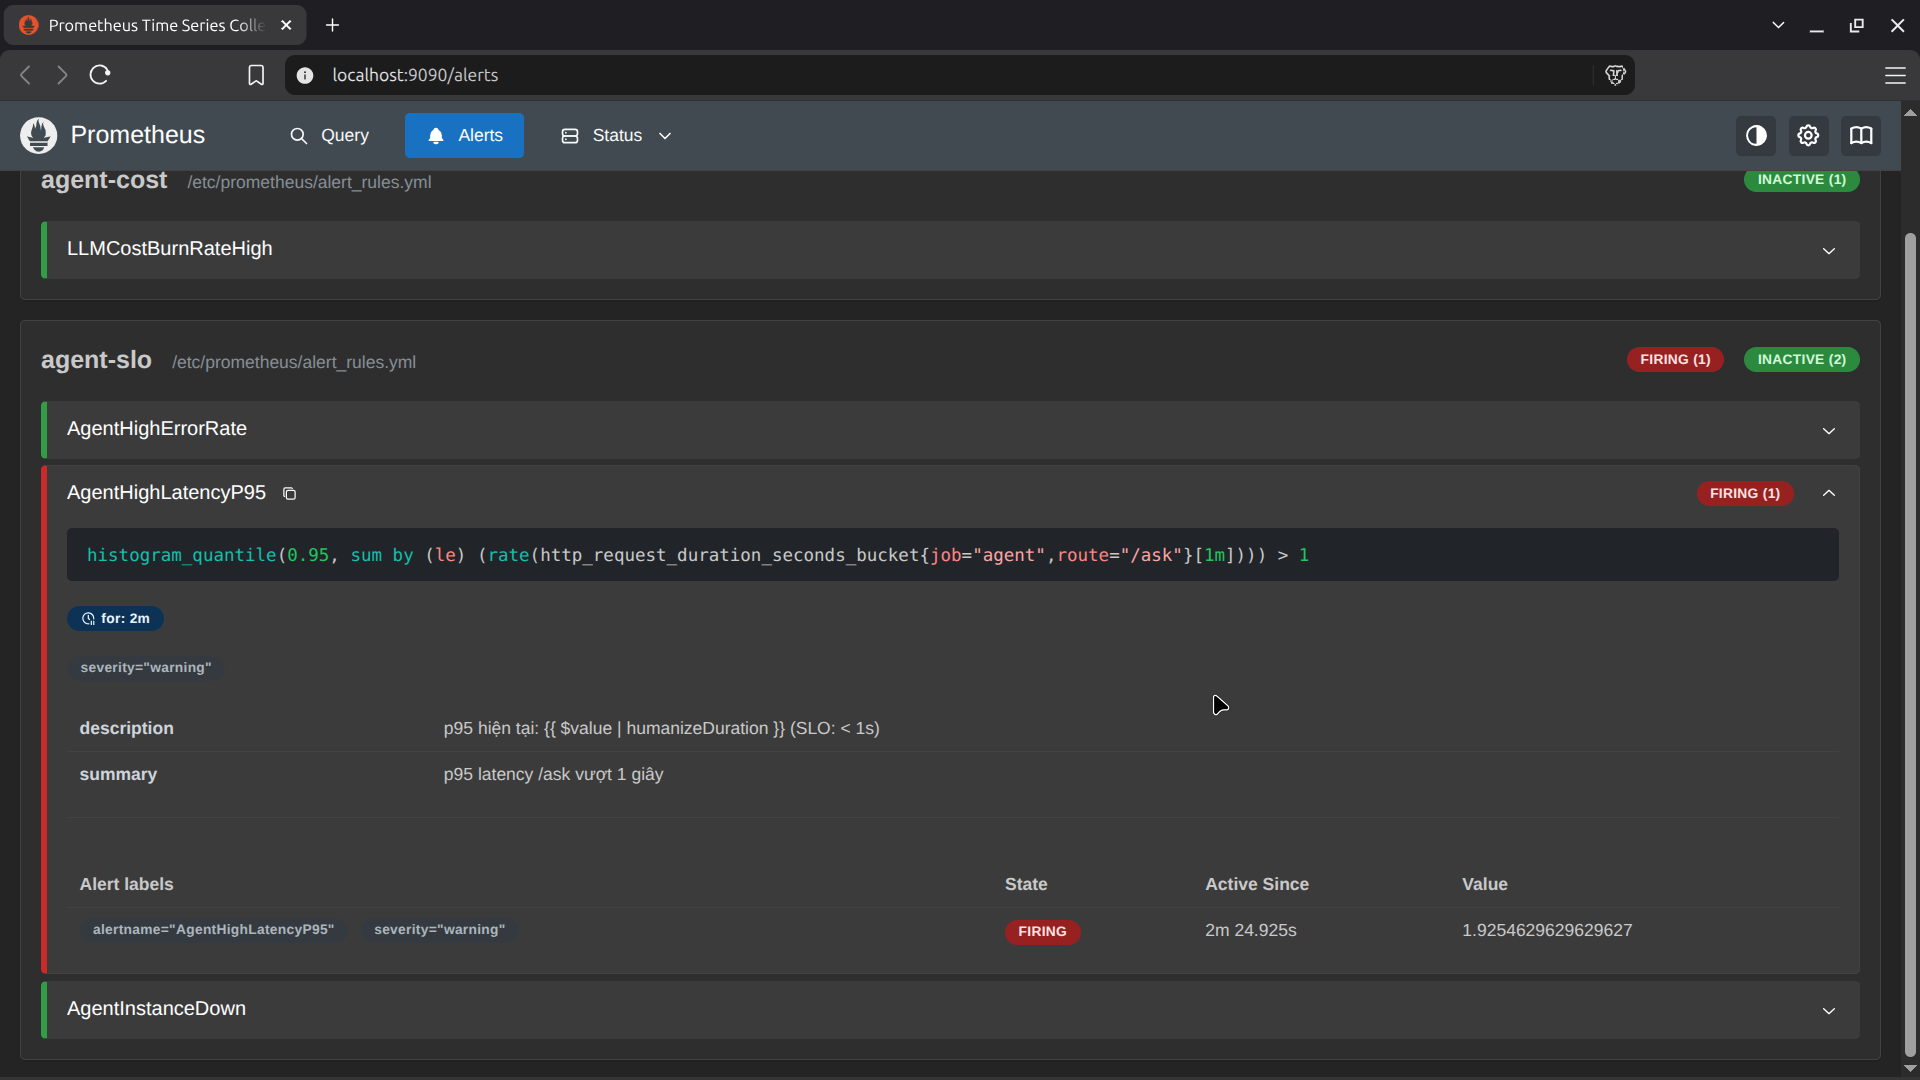
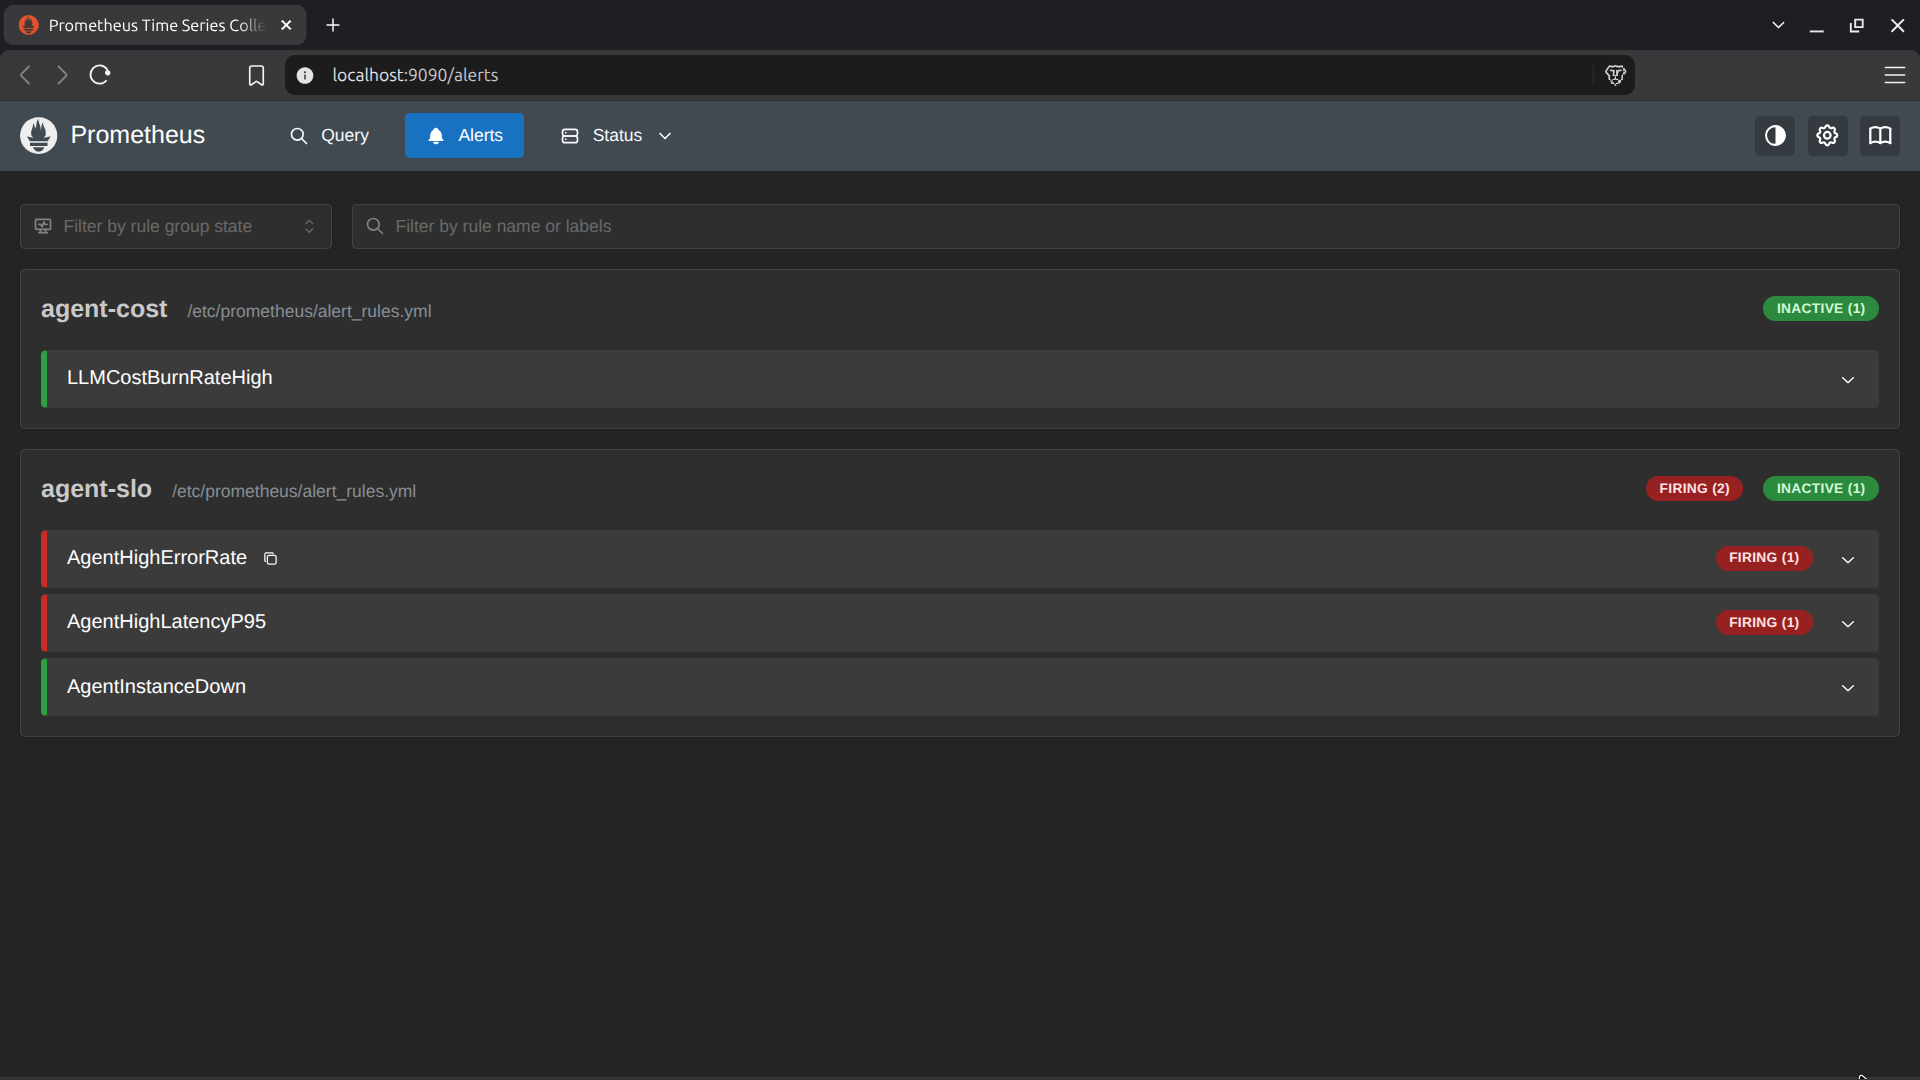
submission

diff --git a/BENCHMARK_REPORT.md b/BENCHMARK_REPORT.md
@@ -78,17 +78,21 @@
 
 | # | Thay đổi | Alert nào firing | Thời gian từ lúc đổi → firing | Panel nào phản ánh rõ nhất |
 |---|---|---|---|---|
-| A | `MOCK_ERROR_RATE=0.2` | `AgentHighErrorRate` | ~105 s (gồm ~45 s agent restart + cửa sổ rate, rồi `for: 1m`) | Error rate (503) |
-| B | `MOCK_SLOW_RATE=0.3` | `AgentHighLatencyP95` | ~142 s (pending ở ~20 s, `for: 2m`) | p95/p99 latency |
+| A | `MOCK_ERROR_RATE=0.2` | `AgentHighErrorRate` | 98 s (pending ở 33 s, `for: 1m`) | Error rate (503) |
+| B | `MOCK_SLOW_RATE=0.3` | `AgentHighLatencyP95` | 142 s (pending ở 21 s, `for: 2m`) | p95/p99 latency |
 | C | `LLM_MODEL=mock-llm-large` | không làm (chỉ yêu cầu ≥ 2) | - | - |
-| D | `docker pause` 1 instance | không làm | - | - |
+| D | `docker pause` 1 instance | `AgentInstanceDown` | 45 s (pending ở 15 s, `for: 30s`) | Instances up: 2 → 1 |
 | E | `AGENT_VERSION=v1` | không làm (theo README: không alert nào) | - | - |
 
 **Thí nghiệm E không làm alert nào firing. Bạn sẽ phát hiện loại sự cố này trong production bằng cách nào?**
 
 Metric hạ tầng (error rate, latency) vẫn xanh nên không alert nào bắt được. Phải chạy eval trên golden dataset định kỳ (cron/CI) và alert khi accuracy tụt dưới SLO 85%; thêm feedback của người dùng (thumbs up/down) và metric như retrieval hit ratio.
 
-(Lưu ý: `LLMCostBurnRateHigh` cũng firing trong lúc chạy A/B, do tải Locust 100 user chạy trước đó, không phải do thí nghiệm C.)
+Mỗi thí nghiệm A, B, D chạy riêng trên stack mới (`docker compose down -v` rồi `up`), tải Locust 30 user, baseline không có alert nào firing; thời gian đo bằng polling Prometheus mỗi 5 s từ lúc đổi cấu hình.
+
+Thí nghiệm D: pause 1 trong 2 instance, `AgentInstanceDown` (`up == 0`) firing sau 45 s trong khi alert error rate của agent vẫn không firing. Lần chạy này 30 request qua Nginx đều trả 200 (Nginx có `proxy_next_upstream` nên thử lại instance còn sống). Ở một lần chạy trước (baseline chưa sạch) mình thấy 1/20 request trả 504 từ Nginx: lỗi 504 sinh ra ở Nginx, request chưa được agent xử lý xong nên metric của agent không đếm. Vì vậy cần giám sát ở tầng load balancer hoặc synthetic check bên ngoài, chứ không chỉ metric của agent.
+
+(Lưu ý: `LLMCostBurnRateHigh` cũng firing trong lúc chạy A/B, do tải Locust 100 user chạy trước đó trong lần chạy đầu, không phải do thí nghiệm C. Ở các lần chạy riêng từng thí nghiệm, baseline không có alert nào.)
 
 ### 4.3 Debug bằng trace
 
